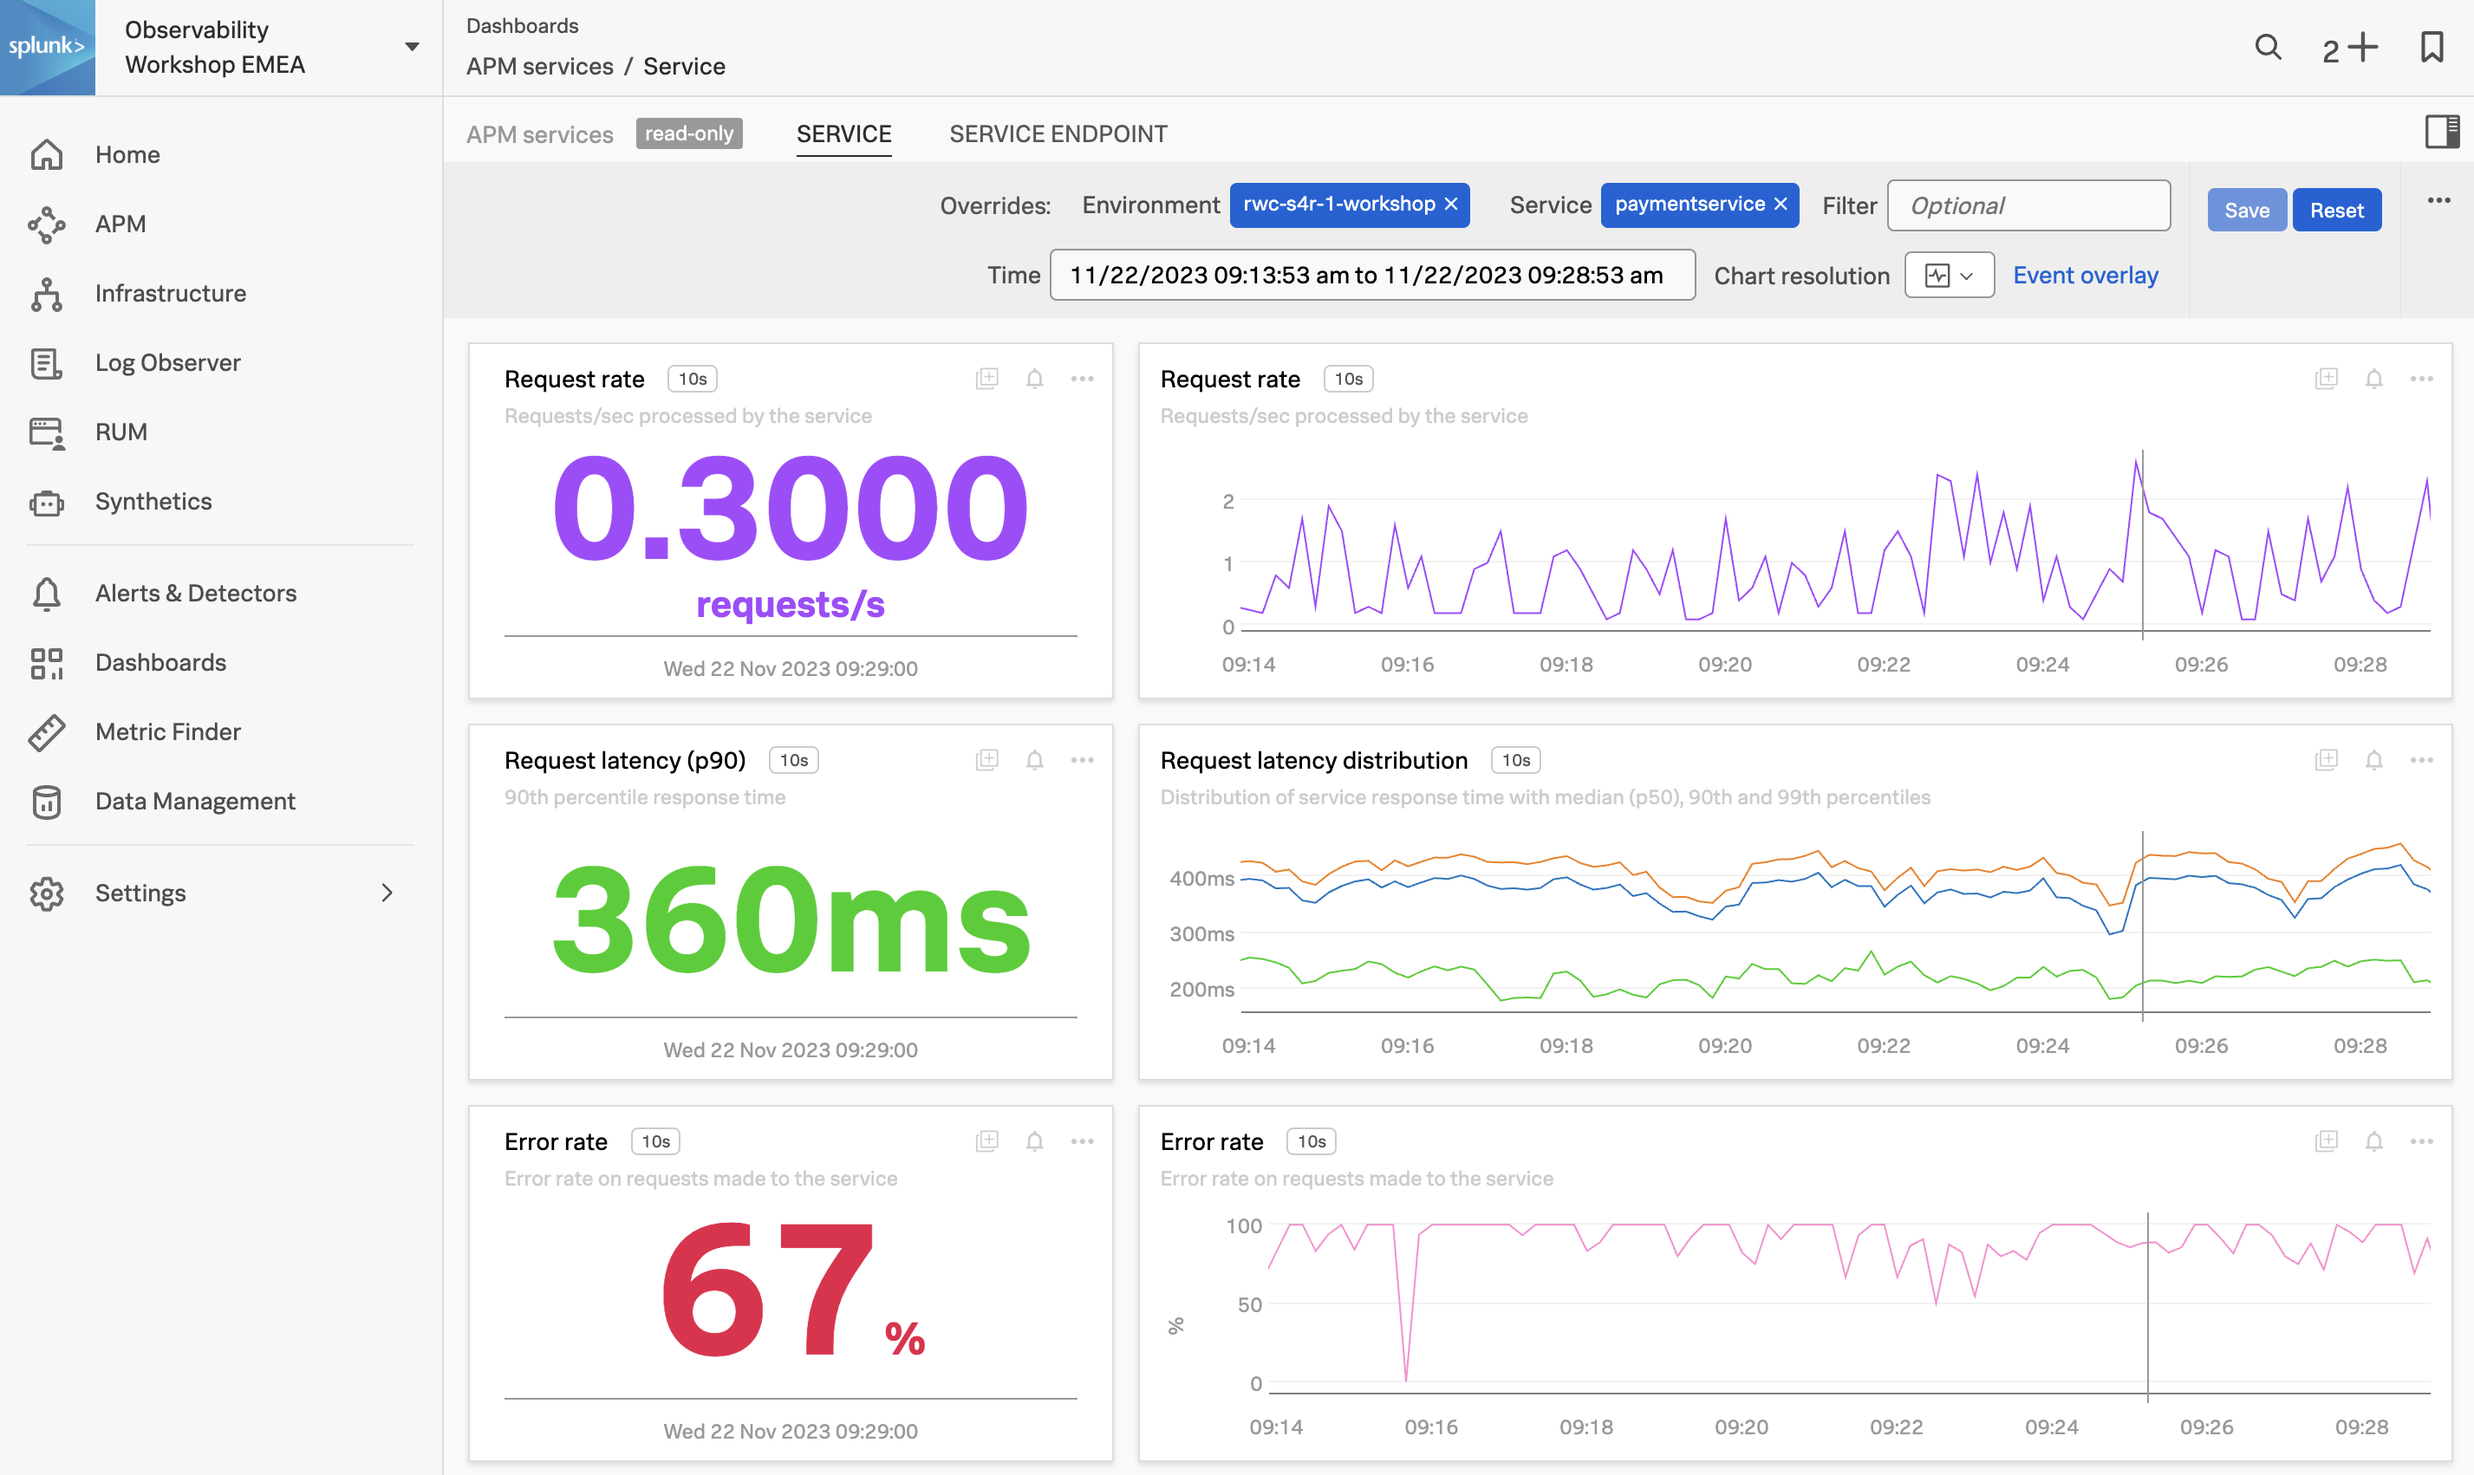
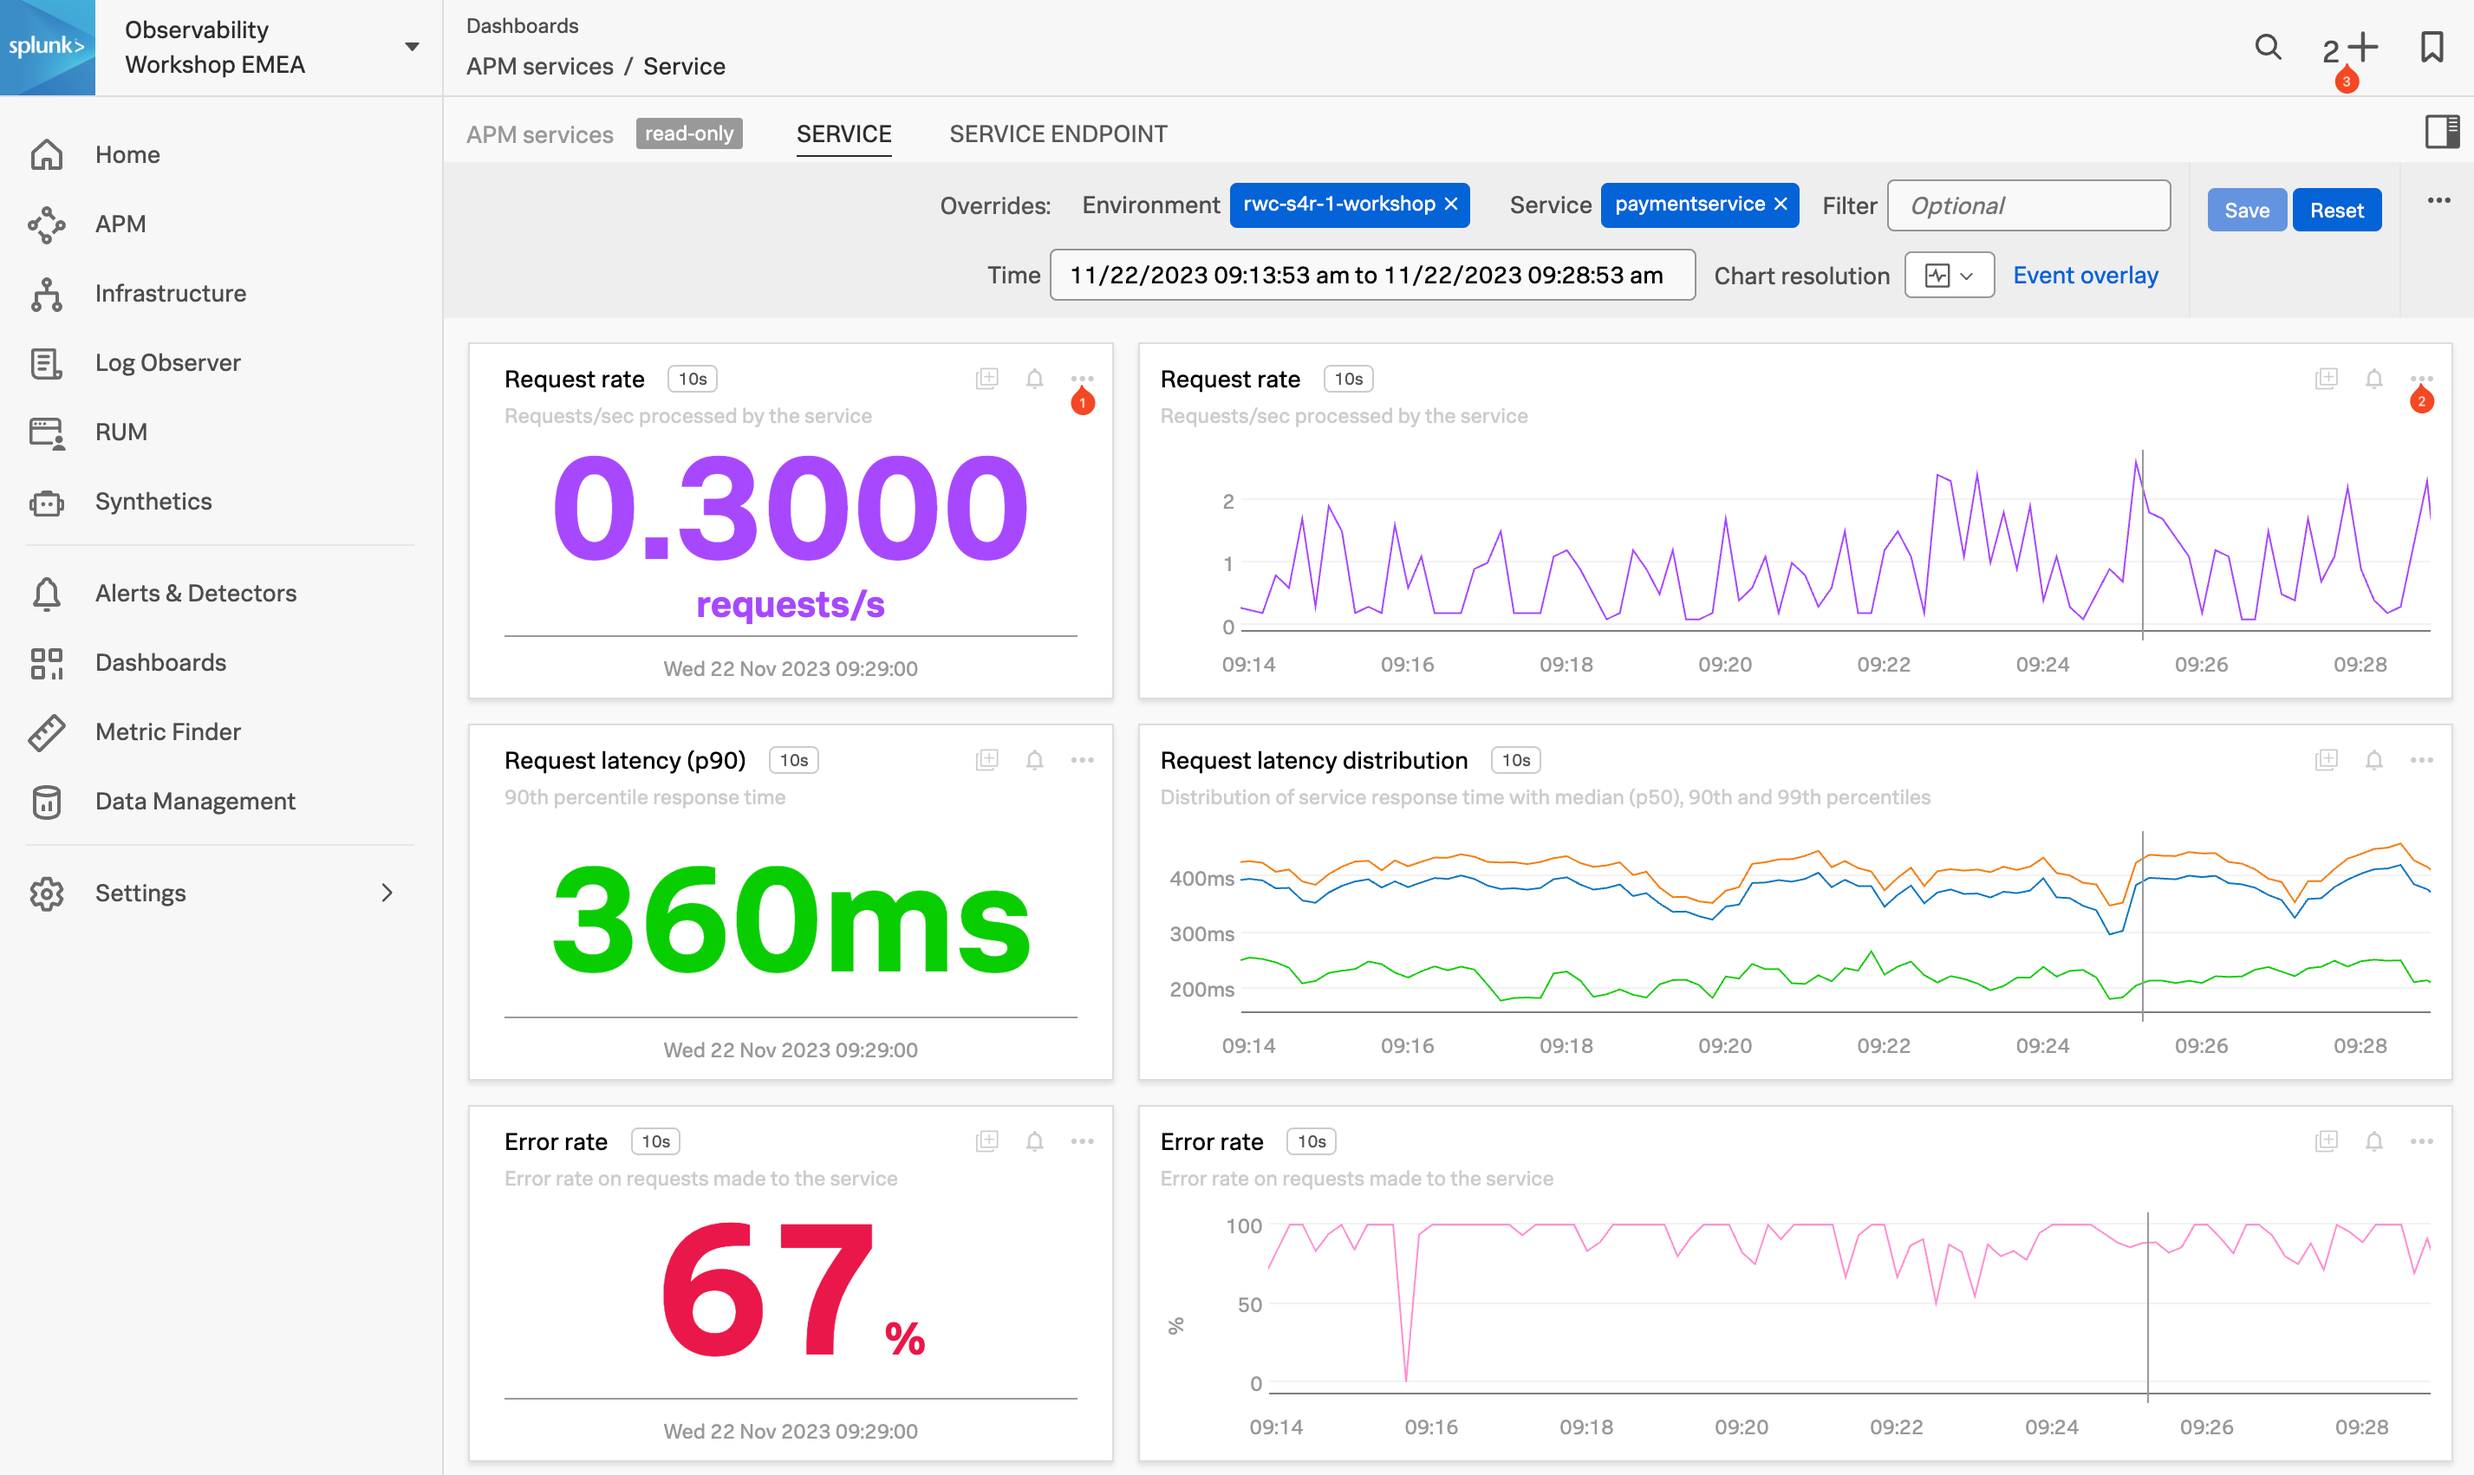
log excersise rearranged

diff --git a/content/en/s4r/3-quick-tour/4-log-observer-home/1-log-observer-home.md b/content/en/s4r/3-quick-tour/4-log-observer-home/1-log-observer-home.md
@@ -38,14 +38,13 @@ Let's run a little search exercise:
 
 * Click on one of the log entries in the Logs table to validate that the entry contains `cardType: "visa"`.
 * Let's find all the orders that have been shipped. Click on **Clear All** in the filter bar to remove the previous filter.
-* In the **Fields** Pane type `severity` in the search box.
-  ![severity](../images/find-severity.png?width=15vw&classes=left)
-* You may need to scroll down the page if you still have the onboarding content displayed at the top to see the **Exclude all logs with this fields** button in the next step.
-* Make sure you click the {{% button style="grey" %}}**Exclude all logs with this fields**{{% /button %}} as the order log line does not have a severity assigned.
-* Click on the {{% button style="grey" %}}**Add Filter**{{% /button %}} button in the filter bar.
-* This time, just type `order:` in the **Enter Keyword...** box and press enter.
+* Click again on {{% button style="gray" %}}Add Filter{{% /button %}} in the filter bar, then select **Keyword**. Next just type `order:` in the **Enter Keyword...** box and press enter.
+* You should now only have logs lines that contain the word "order:". There are still a lot of logs lines, so lets filter some more.
+* Add another filter, this time select the **Fields** box, then type `severity` in the **Find a field...** search box and select it.
+  ![severity](../images/find-severity.png?width=15vw&classes=left) 
+* Make sure you click the {{% button style="gray" %}}**Exclude all logs with this fields**{{% /button %}}  at the bottom of the dialog box, as the order log line does not have a severity assigned.  This will remove the others.
+* You may need to scroll down the page if you still have the onboarding content displayed at the top in order to see the **Exclude all logs with this fields** button.
 * You should now have a list of orders sold for the last 15 minutes.
-
 {{% /notice %}}
 
 Next, let's check out **Splunk Synthetics**.

diff --git a/content/en/s4r/9-custom-dashboard/2-add-chart.md b/content/en/s4r/9-custom-dashboard/2-add-chart.md
@@ -10,7 +10,14 @@ In this section, we are going to use the **Copy and Paste** functionality to ext
 
 * Find your Service Health Dashboard.
 * Select the **2+** at the top of the page and select **Paste charts**, this will create the charts in your custom dashboard.
-* Add `sf_environment:[WORKSHOPNAME]` and `sf_service:payment_service` to the override filter box. ( This will make sure the charts only show data for your workshop **paymentservice**).
+<!--* Add `sf_environment:[WORKSHOPNAME]` and `sf_service:payment_service` to the override filter box. ( This will make sure the charts only show data for your workshop **paymentservice**).
+-->
+* The chart currently show data for all *Environments* & *Services*, so lets add a filter to our environment and the paymentservice.
+* Click on the the 3 dots **...** at the  top right side of the **Request Rate** chart. This wil open the edit mode.
+* In the new screen, click on the {{% button style="blue" %}}sf_environment{{% /button %}} button (1) in the middle of the screen, and pick the [WORKSHOPNAME] from the drop down. The button should change to **sf_environment:[WORKSHOPNAME]**
+* Do the same with the {{% button style="blue" %}}sf_service.{{% /button %}} button (2), only this time change it to `paymentservice`.
+![edit chart](../images/edit-chart.png)
+* Click the {{% button style="blue" %}}Save and close {{% /button %}} button (3). 
 * Click {{% button style="blue" %}}Save{{% /button %}}.
 * As the new pasted charts appeared at the bottom of our dashboard, we need to re-organize our dashboard gain.
 * First drag the *Log view* chart to the second row, between the *Instructions* chart and the *Log Lines* chart, and expand it to fill the row.

diff --git a/content/en/s4r/6-apm/2-apm-service-dashboard.md b/content/en/s4r/6-apm/2-apm-service-dashboard.md
@@ -9,9 +9,10 @@ APM Service Dashboards provide request, error, and duration (**RED**) metrics ba
 
 {{% notice title="Exercise" style="green" icon="running" %}}
 
-* In the **Request rate** text chart, click the **...** and select **Copy**. Note that you now have a **1** before the **+**  at the top right of the page, indicating you have a copied chart to the clipboard.
-* Click the **...** in the **Error rate** text chart and select **Add to clipboard**. Note that you now have **2** before the **+** on the top right of the page.
-* We will be using these charts later on in the workshop. Click the back button in your browser to return to the Service Map.
+* We want to use some of these chart in a later exercise, so lets grab them now while we are looking at them:  
+  * In the **Request rate** text chart **(1)**, click the **...** and select **Copy**. Note that you now have a **1** before the **+**  at the top right of the page, indicating you have a copied chart to the clipboard. (3)
+  * Click  again on the **...** in the **Request rate** line chart **(2)** and select **Add to clipboard**.
+* Note that you now have **2** before the **+** on the top right of the page. **(3)**
 
 {{% /notice %}}
 
